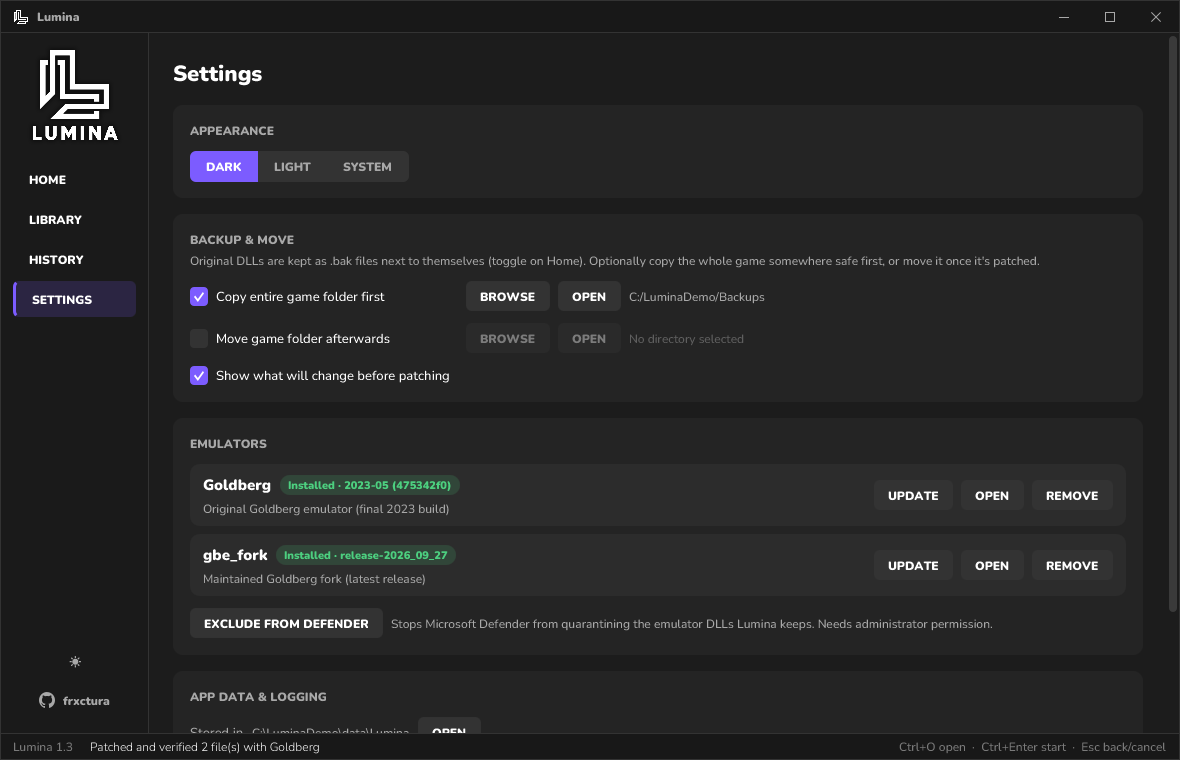
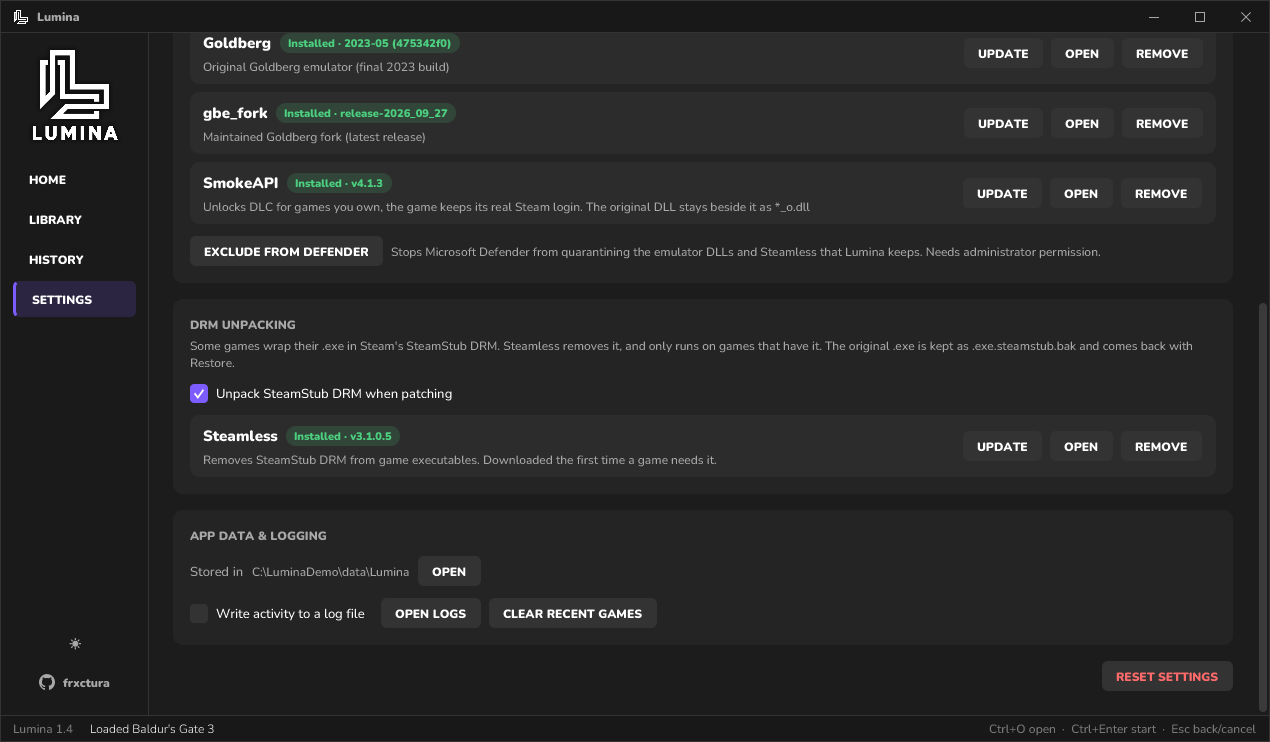
README: new Settings screenshot and a SmokeAPI/unpack one

diff --git a/README.md b/README.md
@@ -67,7 +67,7 @@ Prefer building it yourself? Skip to [Building](#building).
     </td>
     <td>
       <img src="screenshots/settings.png" alt="Settings page">
-      <br><b>Settings</b><br>Themes, backup options and the emulators.
+      <br><b>Settings</b><br>Themes, backup options, the three emulators and Steamless.
     </td>
   </tr>
 </table>
@@ -100,6 +100,8 @@ Everything you patch or restore lands in History. From there you can open the ga
 Goldberg is the original, and its last release was in 2023. gbe_fork is the maintained fork. You can download, update or remove either one in Settings and pick which to use per game.
 
 SmokeAPI works differently from the other two. It doesn't pretend to be Steam, it only makes the game think you own its DLC, so you keep your real Steam login. Instead of overwriting the DLL it takes its place and loads the original, which stays next to it as `steam_api64_o.dll`. That file has to be there for the game to start, so Lumina always keeps it, whatever the `.bak` option says, and Restore puts it back.
+
+<p align="center"><img src="screenshots/smokeapi.png" alt="Home page with SmokeAPI selected and SteamStub unpacking ticked" width="760"></p>
 
 Each game also gets its own emulator settings: username, Steam ID, language, offline mode, and a DLC list that Lumina can pull from Steam for you. They're written in whatever format the emulator you picked expects. For SmokeAPI that's just "unlock every DLC" plus any extra DLC Steam doesn't list, in `SmokeAPI.config.json`.
 
